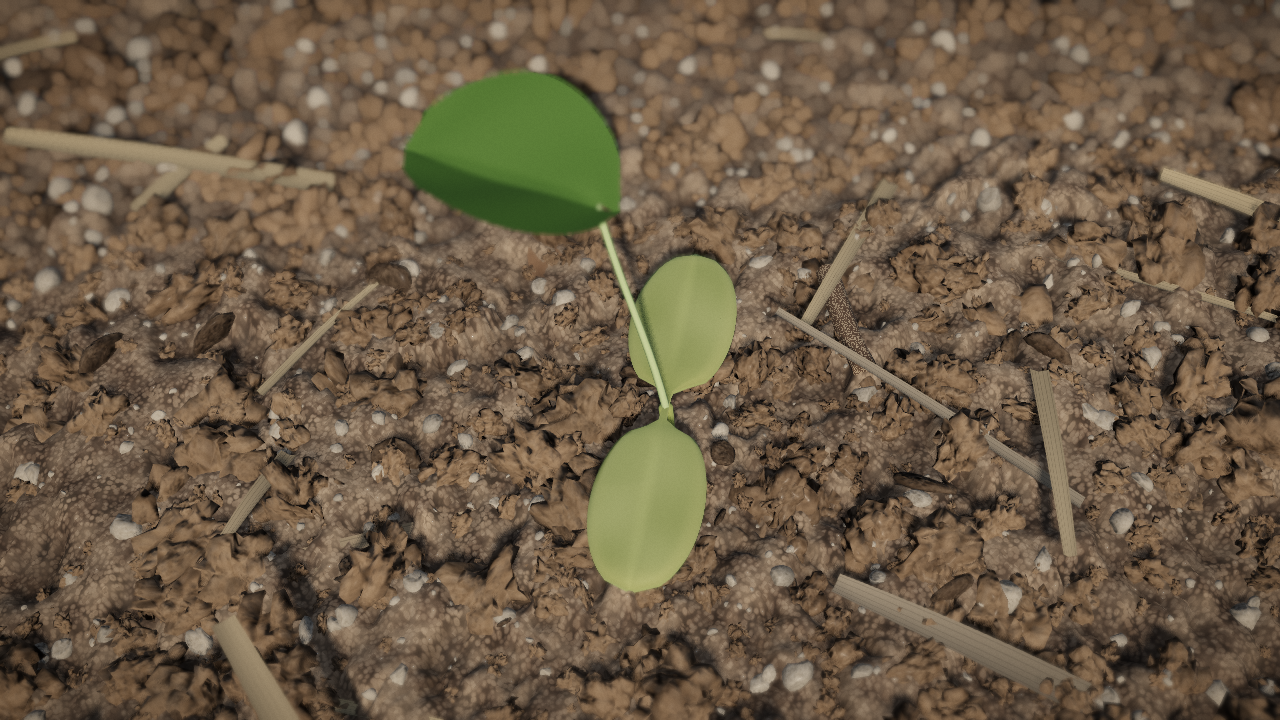
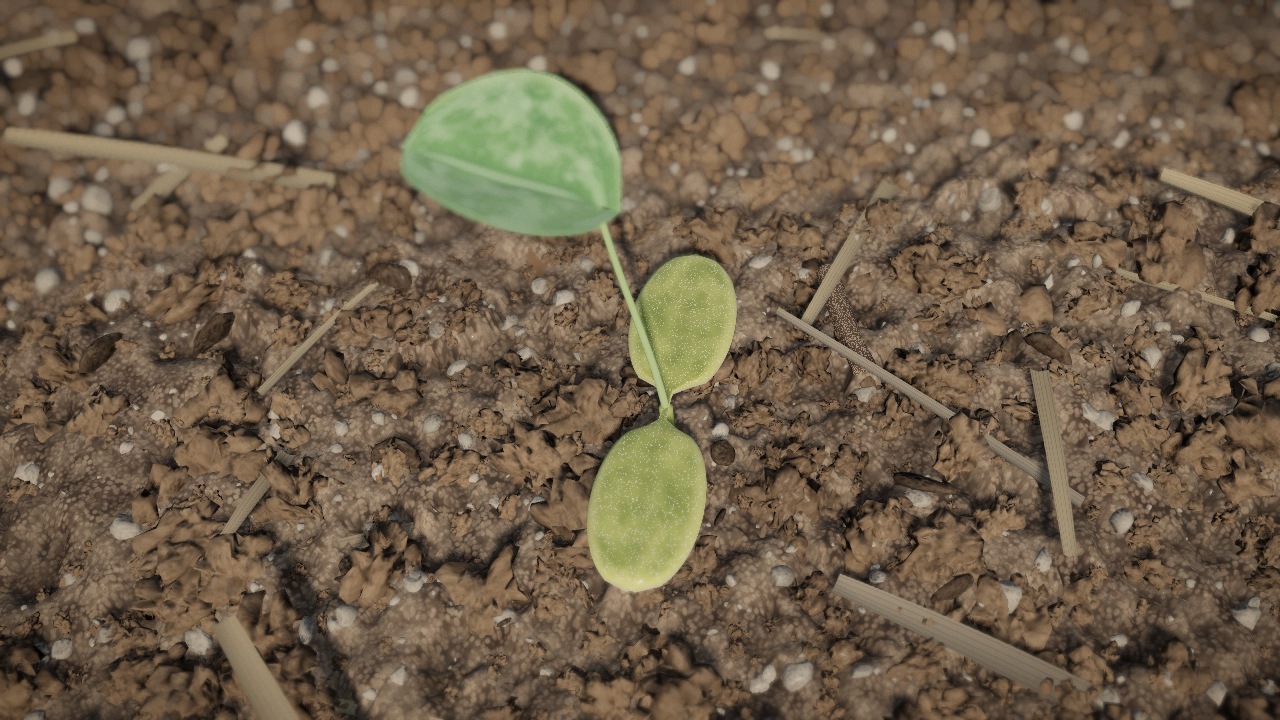
UNDERSOIL: multi-tone unopened cotyledons and detailed undersides (veins, mottling, bloom sheen, transmitted light), warm ground bounce
Claude-Session: https://claude.ai/code/session_01HXHWaeyj425ipGMnohy3Vo

Changed region(s): [[0.3125, 0.0917, 0.5, 0.3361], [0.4375, 0.6111, 0.5625, 0.825], [0.4688, 0.3667, 0.5938, 0.55]]

diff --git a/undersoil/src/game/surface.ts b/undersoil/src/game/surface.ts
@@ -35,7 +35,7 @@ export async function buildSurface(renderer: THREE.WebGPURenderer, base: string,
   const camera = new THREE.PerspectiveCamera(30, 1, 0.3, 600);
   const sun = new THREE.DirectionalLight(0xfff3e2, 3.4); sun.position.copy(sunDir).multiplyScalar(80); scene.add(sun);
   if (opts.shadows) { sun.castShadow = true; sun.shadow.mapSize.set(2048, 2048); const c = sun.shadow.camera; c.left = -22; c.right = 22; c.top = 22; c.bottom = -22; c.near = 10; c.far = 160; sun.shadow.bias = -0.0006; sun.shadow.normalBias = 0.06; sun.shadow.radius = 4; }
-  scene.add(new THREE.HemisphereLight(0xd6e2f2, 0x55402c, 0.5));
+  scene.add(new THREE.HemisphereLight(0xd6e2f2, 0x8a6a4c, 0.6));   // 下からの光は、土の照り返しの色
 
   // 地面：細かい土がつながった面（ground.ts）。その上に、半分埋まった土のかたまりと小石
   const height = makeHeight();
@@ -83,7 +83,6 @@ export async function buildSurface(renderer: THREE.WebGPURenderer, base: string,
     // 模様の座標は、子葉の実際の寸法（幅 約2.25 mm × 長さ 約3.8 mm）に合わせた UV（mm）。圧縮したモデルの座標は mm ではないので使わない
     const pl = vec3(u2.x.mul(2.25), u2.y.mul(3.8), topSide.mul(5.0));
     const blot = saturate(mx_noise_float(pl.mul(1.6)).mul(0.8).add(mx_noise_float(pl.mul(4.3)).mul(0.4)).add(0.5));
-    const pale = vec3(0.62, 0.58, 0.16), rootCol = vec3(0.88, 0.86, 0.78);
     const edgeU = smoothstep(0.36, 0.5, abs(u2.x.sub(0.5))), edgeTip = smoothstep(0.9, 1.0, alongCot);
     const edge = edgeU.add(edgeTip).min(1.0);
     const base = smoothstep(0.35, 0.1, alongCot);                                           // 付け根
@@ -98,21 +97,40 @@ export async function buildSurface(renderer: THREE.WebGPURenderer, base: string,
     // ⑤ 付いた土の粒：まばらな茶色の小さな点
     const speck = smoothstep(0.06, 0.02, mx_worley_noise_float(pl.mul(6.0).add(vec3(7.0, 2.0, 5.0)))).mul(step(0.6, saturate(mx_noise_float(pl.mul(2.0)).add(0.5))));
     cotTop = mix(cotTop, vec3(0.16, 0.10, 0.06), speck.mul(0.85));
-    const cotGreen = mix(mix(vec3(0.28, 0.33, 0.11), vec3(0.36, 0.38, 0.15), blot), cotTop, topSide);   // 裏は淡く、つやが少ない
+    // 裏側（日の当たらない側）も一色ではない（ダイコンの芽生えの写真）：灰色がかった淡い緑のまだら、白っぽい中央の葉脈と細い葉脈の網目、
+    // 白い粉をふいたような鈍い光沢（シーン）、縁のわずかな赤紫。光の点は表より少ない
+    const midU = oneMinus(smoothstep(0.0, 0.06, abs(u2.x.sub(0.5)))).mul(smoothstep(0.12, 0.5, alongCot));
+    const vnet = smoothstep(0.5, 0.85, mx_worley_noise_float(pl.mul(2.6))).mul(smoothstep(0.1, 0.35, abs(u2.x.sub(0.5)).oneMinus())).mul(0.6);
+    let under = mix(vec3(0.21, 0.27, 0.10), vec3(0.32, 0.36, 0.15), blot);
+    under = mix(under, vec3(0.48, 0.50, 0.29), midU.mul(0.65).add(vnet.mul(0.4)).min(1.0));
+    under = mix(under, vec3(0.30, 0.20, 0.13), edgeU.mul(0.35));
+    under = under.mul(mix(float(1.0), float(0.8), base.mul(0.5)));
+    under = mix(under, vec3(0.52, 0.55, 0.42), dots.mul(0.25));
+    const cotGreen = mix(under, cotTop, topSide);
     // 胚軸：淡い緑で半透明。地ぎわはわずかに赤みを帯び、上へ行くほど緑
     const stemGreen = mix(vec3(0.18, 0.12, 0.05), vec3(0.24, 0.30, 0.09), smoothstep(0.3, 0.8, vc.b)).mul(mix(float(0.9), float(1.1), saturate(mx_noise_float(vec3(u2.x.mul(1.2), u2.y.mul(4.0), float(0)).mul(6.0)).add(0.5))));
     const green = mix(stemGreen, cotGreen, isCot);
     // 緑になる順番：光に当たった所から。縁と先が先に緑になり、付け根はしばらく黄色が残る
     const greening = saturate(uGreen.mul(1.3).sub(base.mul(0.3)).sub(oneMinus(isCot).mul(0.15))).mul(aboveGround);
+    // 開く前（まだ光に慣れていない）色：付け根は淡い黄、先と外側ほど黄緑。まだら、縁の明るさ、裏はやや濃い。茎は根元が赤み
+    const rootCol = vec3(0.88, 0.86, 0.78);
+    const paleCot = mix(mix(vec3(0.72, 0.60, 0.17), vec3(0.42, 0.50, 0.10), smoothstep(0.2, 1.0, alongCot)), vec3(0.62, 0.58, 0.24), smoothstep(0.3, 0.8, blot).mul(0.6))
+      .mul(mix(float(1.0), float(0.82), oneMinus(topSide).mul(0.5))).add(vec3(0.08, 0.08, 0.02).mul(edge));
+    const paleStem = mix(vec3(0.42, 0.20, 0.10), vec3(0.62, 0.58, 0.22), smoothstep(0.15, 0.6, vc.b));
+    const pale = mix(paleStem, paleCot, isCot);
     const col = mix(mix(pale, green, greening), rootCol, isRoot);
     pm.colorNode = col;
     // 粗さ：土台はつやなし。光の点だけ鋭く光る
-    pm.roughnessNode = mix(float(0.5), mix(float(0.88), float(0.12), dots.mul(topSide)), isCot);
+    const opened = mix(float(0.88), float(0.12), dots.mul(topSide));
+    pm.roughnessNode = mix(float(0.45), mix(float(0.32), opened, greening), isCot);   // 開く前は、ろうのような強いつや
     pm.metalnessNode = float(0);
     pm.clearcoatNode = dots.mul(isCot).mul(0.35); pm.clearcoatRoughnessNode = float(0.15);
-    pm.sheen = 0.3; pm.sheenRoughness = 0.6; pm.sheenColor = new THREE.Color(0.6, 0.65, 0.45);
+    pm.sheenNode = mix(float(0.15), float(0.6), oneMinus(topSide)).mul(isCot); pm.sheenRoughness = 0.55; pm.sheenColor = new THREE.Color(0.75, 0.8, 0.7);   // 裏は白い粉をふいたような光沢
     // 透け：縁と胚軸は薄いので、光が抜けて明るむ
-    pm.emissiveNode = col.mul(vec3(1.1, 1.1, 0.5)).mul(back.mul(0.6).add(0.12)).mul(mix(float(0.3), edge.mul(0.6), isCot)).mul(aboveGround).mul(oneMinus(isRoot));
+    // 透過光：日の当たらない面には、葉を透けた黄緑の光が届く（薄い子葉は光の一部を通す）。縁と胚軸も薄いので少し明るむ
+    const through = saturate(dot(normalWorld, uSun).negate()).mul(0.8).add(0.2);
+    const transmitted = col.mul(vec3(0.9, 1.05, 0.45)).mul(through).mul(oneMinus(topSide).mul(0.9).add(0.1));   // 葉の模様の色のまま透ける
+    pm.emissiveNode = col.mul(vec3(1.1, 1.1, 0.5)).mul(back.mul(0.5)).mul(mix(float(0.3), edge.mul(0.25), isCot)).add(transmitted.mul(isCot).mul(0.5)).mul(aboveGround).mul(oneMinus(isRoot));
     plant.material = pm; plant.castShadow = true; plant.receiveShadow = true; plant.frustumCulled = false;
   }
   {
@@ -134,7 +152,8 @@ export async function buildSurface(renderer: THREE.WebGPURenderer, base: string,
     const colL = mix(vec3(0.30, 0.42, 0.18), bladeCol, isBlade);
     lm.colorNode = colL; lm.roughnessNode = mix(float(0.5), float(0.72), isBlade); lm.metalnessNode = float(0);
     lm.sheen = 0.25; lm.sheenRoughness = 0.5; lm.sheenColor = new THREE.Color(0.7, 0.8, 0.7);
-    lm.emissiveNode = colL.mul(vec3(1.2, 1.35, 0.6)).mul(back.mul(0.45)).mul(oneMinus(veinNet.mul(0.5)));
+    const thruL = saturate(dot(normalWorld, uSun).abs().oneMinus().mul(0.3).add(back));
+    lm.emissiveNode = colL.mul(vec3(1.2, 1.35, 0.6)).mul(thruL.mul(0.45)).mul(oneMinus(veinNet.mul(0.5)));
     leaf.material = lm; leaf.castShadow = true; leaf.receiveShadow = true; leaf.frustumCulled = false;
   }
   const holder = new THREE.Group(); holder.position.y = height(0, 0) - SEED_DEPTH; holder.rotation.y = 0.6; holder.add(gltf.scene); scene.add(holder);
@@ -169,6 +188,7 @@ export async function buildSurface(renderer: THREE.WebGPURenderer, base: string,
       const g = surf.growth; void t;
       const k = Math.max(0, Math.min(1, (g - 0.7) / 0.3)); const kk = k * k * (3 - 2 * k);   // 本葉が伸びる間だけ、ごくゆっくり引く
       camera.position.set(-9.5 - kk * 2.5, gy + 17.5 + kk * 5.0, 9.0 + kk * 2.0);
+      const sc = new URLSearchParams(location.search).get('scam'); if (sc) { const v = sc.split(',').map(Number); camera.position.set(v[0], gy + v[1], v[2]); camera.lookAt(0, gy + v[3], 0); focusDistance.value = camera.position.distanceTo(new THREE.Vector3(0, gy + v[3], 0)); return; }   // 確認用：?scam=x,y,z,注視の高さ
       camera.lookAt(0.3 - kk * 0.8, gy + 0.6 + kk * 2.2, 0.2 - kk * 0.6);
       focusDistance.value = camera.position.length() - 0.5; // ピントは芽に合わせ続ける
     },

diff --git a/undersoil/Docs/REFERENCE/PLANT_PROCESS.md b/undersoil/Docs/REFERENCE/PLANT_PROCESS.md
@@ -33,3 +33,6 @@
   色：日陰 #919C41、日なた #CACD89、縁 #D1D187。
 - 本葉：青みがかった灰緑（#88BA7E・#7FB375）の上に、白っぽい細い葉脈の網目。ビロードに近い鈍い光沢。
 作り方：模様は、葉の実際の寸法（mm）に合わせた UV の座標から作る。**圧縮したモデル（meshopt）の positionLocal は mm ではない**ので、模様の基準に使わない（使うと水玉模様になる）。
+- 開く前と裏側も一色にしない（2026-11-22、持ち主の指摘）。開く前の子葉：付け根は淡い黄、先と外側ほど黄緑、まだら、ろうのような強いつや。茎は根元が赤み。
+  裏側：灰色がかった淡い緑のまだら、白っぽい中央の葉脈と細い葉脈の網目、白い粉をふいたような光沢、縁のわずかな赤紫。日の当たらない面には、葉の模様の色のまま光が透ける。
+  確認は、ゲームのカメラだけでなく、横から・下から見る角度（`?scam=x,y,z,注視の高さ`）でも必ず撮る。
